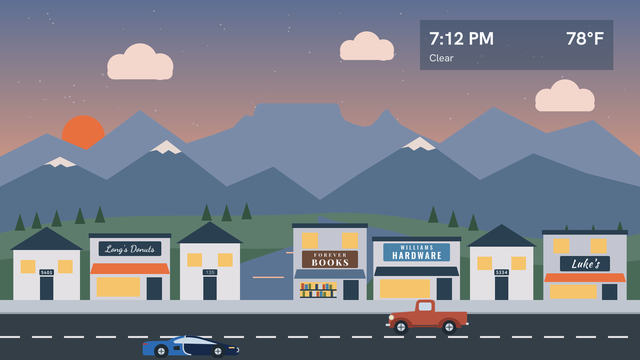
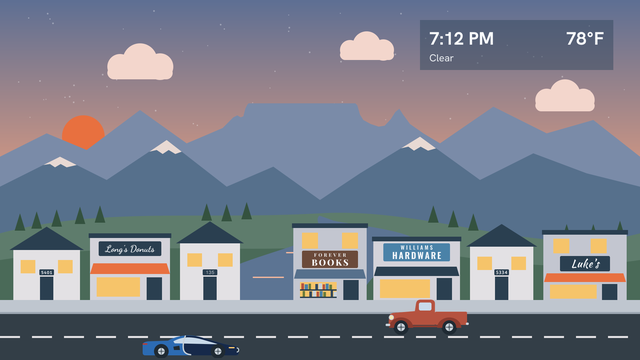
Make the Table Mountain flat top wider
The flat top is now 320 px wide instead of 234. Devil's Peak moves
30 px to the left and Lion's Head moves about 36 px to the right to
make room.

Claude-Session: https://claude.ai/code/session_01F1XyeJbkdn1kDtDDVeB88k

diff --git a/tools/generate_images.py b/tools/generate_images.py
@@ -137,14 +137,14 @@ def snow_caps(points, t, fill, min_rise=30):
 # flat top with steep cliffs at each end, a dip, and a smaller pointed peak
 # (Lion's Head). The flat top points all have the same y value, so
 # snow_caps() does not treat them as peaks.
-TABLE_TOP = (776, 1010, 310)   # left x, right x, y of the flat top
+TABLE_TOP = (746, 1066, 310)   # left x, right x, y of the flat top
 FAR_PTS = [(0,470),(140,400),(260,450),(420,330),(560,430),
            # Devil's Peak
-           (640,404),(700,382),(718,362),(730,350),(742,344),(752,350),(760,347),
+           (612,408),(668,384),(688,364),(700,352),(712,346),(722,352),(730,349),
            # Left cliff, flat top, right cliff
-           (766,324),(772,313),(TABLE_TOP[0],TABLE_TOP[2]),(TABLE_TOP[1],TABLE_TOP[2]),(1016,316),(1024,344),(1034,360),
+           (736,326),(742,314),(TABLE_TOP[0],TABLE_TOP[2]),(TABLE_TOP[1],TABLE_TOP[2]),(1072,316),(1080,344),(1090,360),
            # The dip, then Lion's Head
-           (1060,372),(1090,380),(1112,377),(1132,358),(1148,336),(1162,326),(1174,342),(1200,372),(1250,400),
+           (1112,372),(1136,380),(1154,377),(1172,358),(1186,336),(1198,326),(1208,342),(1230,372),(1270,400),
            (1320,430),(1480,320),(1640,400),(1780,360),(1920,470)]
 def far(p, season):
     pts = " ".join(f"{x},{y}" for x, y in FAR_PTS)
